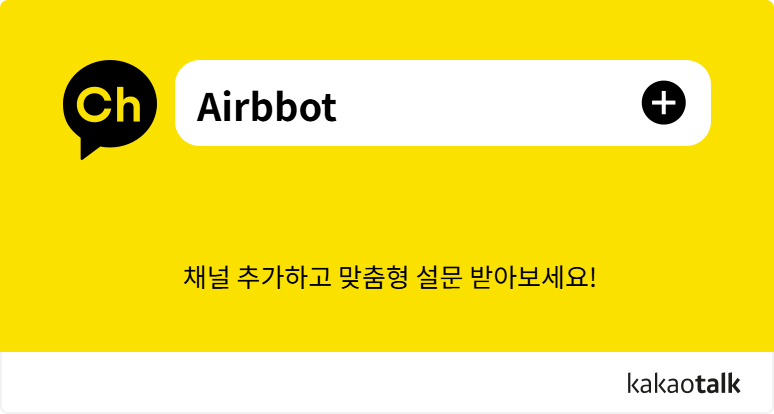
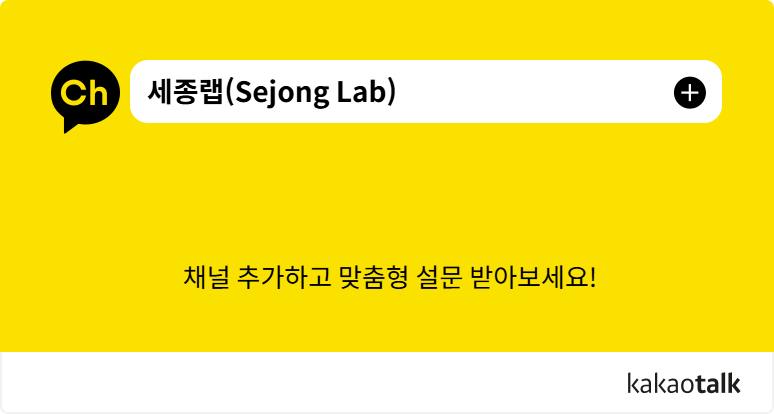
색상 및 채널 변경

Changed region(s): [[0.062, 0.1449, 0.9302, 0.3768]]

diff --git a/src/components/KakaoChannelBanner.tsx b/src/components/KakaoChannelBanner.tsx
@@ -1,6 +1,6 @@
 import Image from "next/image";
 
-export const SEJONG_LAB_KAKAO_CHANNEL_URL = "https://pf.kakao.com/_xdwtpG";
+export const SEJONG_LAB_KAKAO_CHANNEL_URL = "https://pf.kakao.com/_EnqxjX";
 
 const BANNER_WIDTH = 774;
 const BANNER_HEIGHT = 414;
@@ -17,7 +17,7 @@ export function KakaoChannelBanner() {
       >
         <Image
           src="/images/kakao-ch-banner.png"
-          alt="세종랩 카카오톡 채널 친구 추가 — Airbbot 채널 추가하고 맞춤형 설문 받아보세요"
+          alt="세종랩(Sejong Lab) 카카오톡 채널 — 채널 추가하고 맞춤형 설문 받아보세요"
           width={BANNER_WIDTH}
           height={BANNER_HEIGHT}
           className="w-full h-auto"

diff --git a/src/app/globals.css b/src/app/globals.css
@@ -9,7 +9,7 @@
   --color-primary: #124559; /* 메인 컬러: 다크 틸 */
   --color-secondary: #598392; /* 보조 컬러: 에어포스 블루 */
   --color-accent: #aec3b0; /* 강조 컬러: 애쉬 그레이 */
-  --color-light: #eff6e0; /* 연한 배경: 베이지 — 섹션 배경·옅은 패널 */
+  --color-light: #d9d9d9; /* 연한 배경 — 섹션 배경·옅은 패널 */
   /* --color-secondary: 에어포스 블루 — 호버·보조 강조·서브 버튼 */
   /* --color-accent: 애쉬 그레이 — 구분선·차트 보조 눈금·비강조 */
 